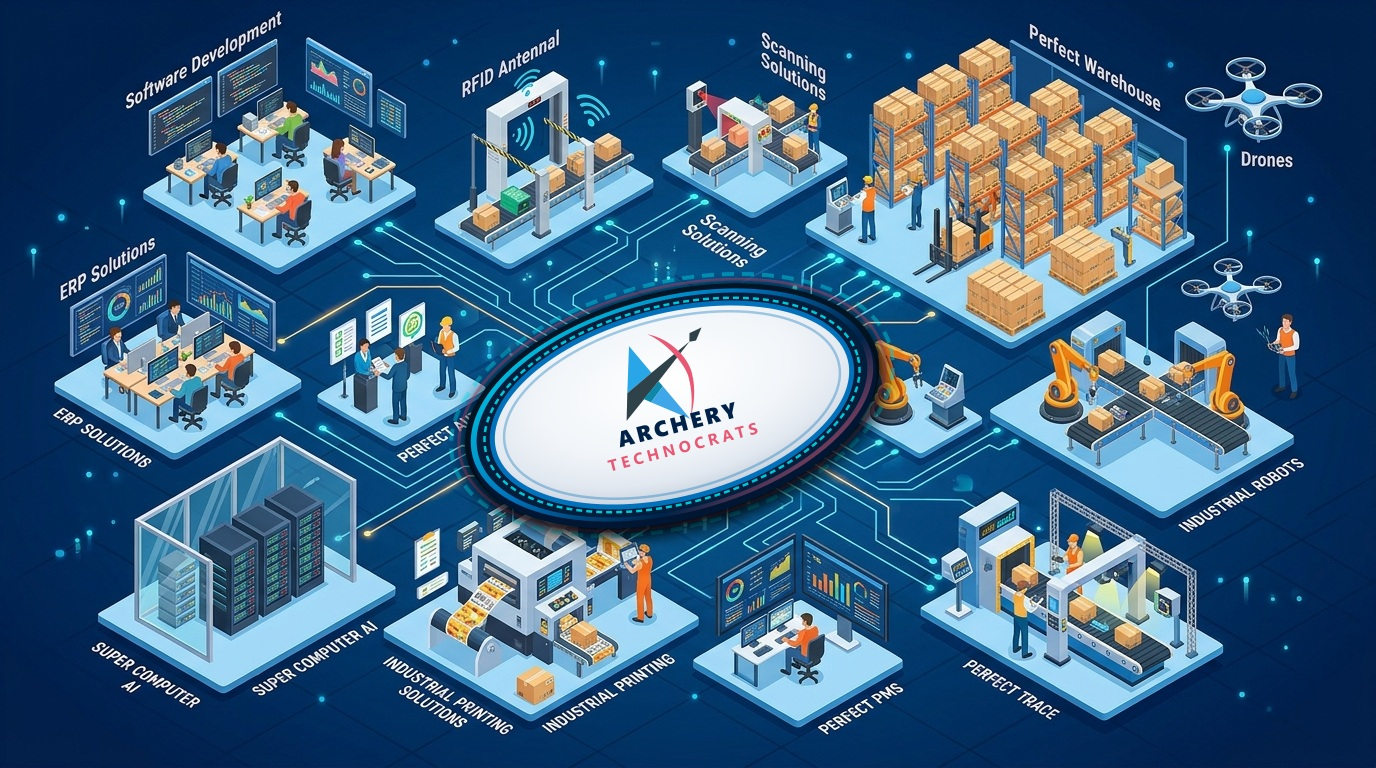
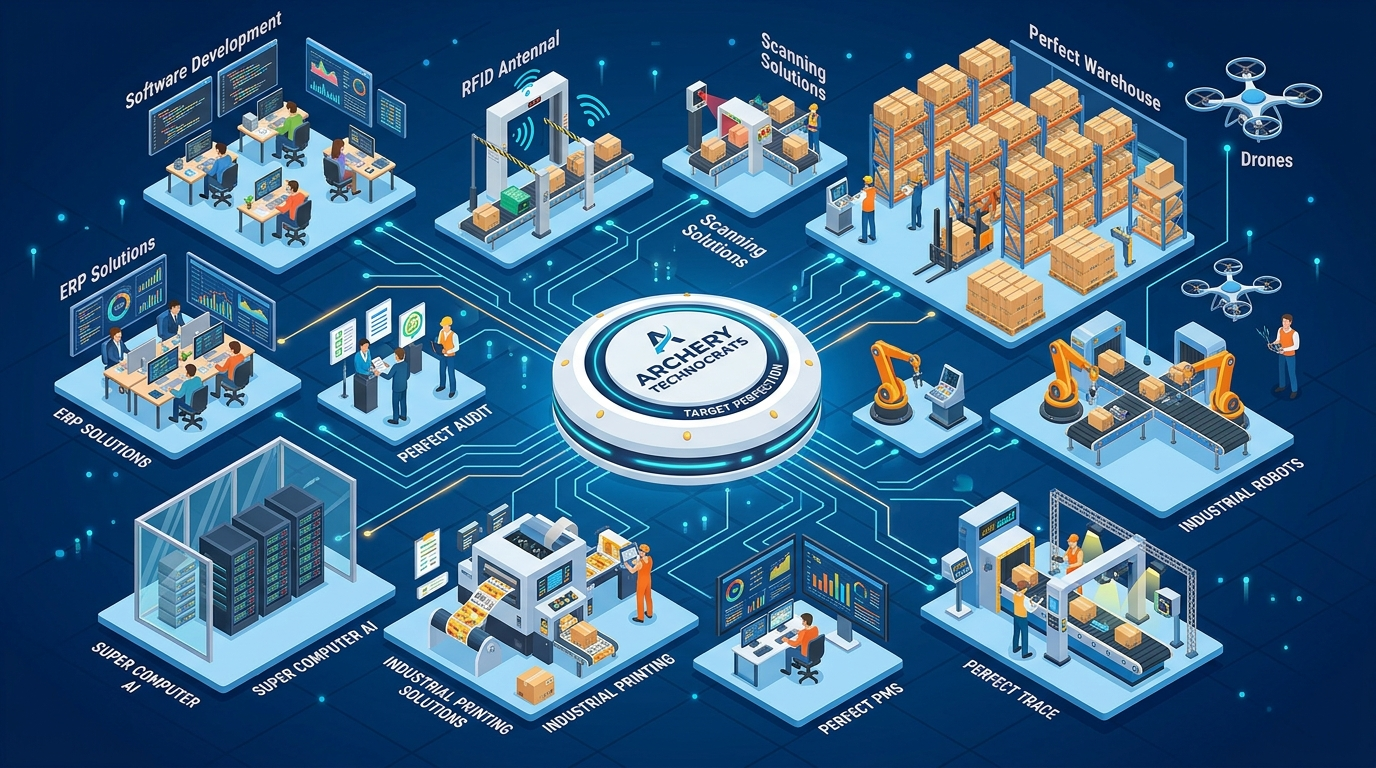
Remove distorted white oval from factory blueprint and nest QR code cleanly on central pedestal

Changed region(s): [[0.3125, 0.3438, 0.6562, 0.7188]]

diff --git a/src/components/common/FactoryBlueprintMap.jsx b/src/components/common/FactoryBlueprintMap.jsx
@@ -575,12 +575,12 @@ export const FactoryBlueprintMap = () => {
             );
           })}
 
-          {/* CENTER QR CODE HUB (Scan to Experience Live 3D Factory Tour) */}
+          {/* CENTER QR CODE HUB (Cleanly Nested on the Futuristic Central Pedestal) */}
           <div 
             style={{
               position: 'absolute',
-              left: '50%',
-              top: '50%',
+              left: '49.8%',
+              top: '50.2%',
               transform: 'translate(-50%, -50%)',
               zIndex: 22,
               display: 'flex',
@@ -595,29 +595,29 @@ export const FactoryBlueprintMap = () => {
               title="Scan or click QR code to launch 3D Factory Tour"
               style={{
                 position: 'relative',
-                padding: '6px',
+                padding: '5px',
                 backgroundColor: '#ffffff',
                 borderRadius: '12px',
                 border: '2px solid #00f0ff',
-                boxShadow: '0 0 25px rgba(0, 240, 255, 0.45), 0 0 45px rgba(232, 88, 116, 0.25), 0 10px 30px rgba(0, 0, 0, 0.85)',
+                boxShadow: '0 0 20px rgba(0, 240, 255, 0.5), 0 8px 25px rgba(0, 0, 0, 0.75)',
                 cursor: 'pointer',
                 transition: 'transform 0.2s ease, box-shadow 0.2s ease'
               }}
               onMouseEnter={(e) => {
-                e.currentTarget.style.transform = 'scale(1.06)';
-                e.currentTarget.style.boxShadow = '0 0 35px rgba(0, 240, 255, 0.7), 0 0 50px rgba(232, 88, 116, 0.45)';
+                e.currentTarget.style.transform = 'scale(1.08)';
+                e.currentTarget.style.boxShadow = '0 0 30px rgba(0, 240, 255, 0.8), 0 0 45px rgba(232, 88, 116, 0.5)';
               }}
               onMouseLeave={(e) => {
                 e.currentTarget.style.transform = 'scale(1)';
-                e.currentTarget.style.boxShadow = '0 0 25px rgba(0, 240, 255, 0.45), 0 0 45px rgba(232, 88, 116, 0.25), 0 10px 30px rgba(0, 0, 0, 0.85)';
+                e.currentTarget.style.boxShadow = '0 0 20px rgba(0, 240, 255, 0.5), 0 8px 25px rgba(0, 0, 0, 0.75)';
               }}
             >
               <img 
                 src={atplQrCodeImg} 
                 alt="Scan ATPL QR Code" 
                 style={{
-                  width: '68px',
-                  height: '68px',
+                  width: '74px',
+                  height: '74px',
                   display: 'block',
                   borderRadius: '6px'
                 }}
@@ -639,18 +639,18 @@ export const FactoryBlueprintMap = () => {
               </div>
             </div>
             <div style={{
-              marginTop: '4px',
-              backgroundColor: 'rgba(3, 10, 22, 0.9)',
-              padding: '0.12rem 0.45rem',
+              marginTop: '5px',
+              backgroundColor: 'rgba(3, 10, 22, 0.92)',
+              padding: '0.12rem 0.5rem',
               borderRadius: '999px',
-              border: '1px solid rgba(0, 240, 255, 0.35)',
+              border: '1px solid rgba(0, 240, 255, 0.4)',
               color: '#00f0ff',
-              fontSize: '0.6rem',
+              fontSize: '0.62rem',
               fontWeight: 800,
               letterSpacing: '0.06em',
               textTransform: 'uppercase',
               whiteSpace: 'nowrap',
-              boxShadow: '0 2px 8px rgba(0,0,0,0.6)'
+              boxShadow: '0 4px 12px rgba(0,0,0,0.8)'
             }}>
               📱 Scan Tour
             </div>
